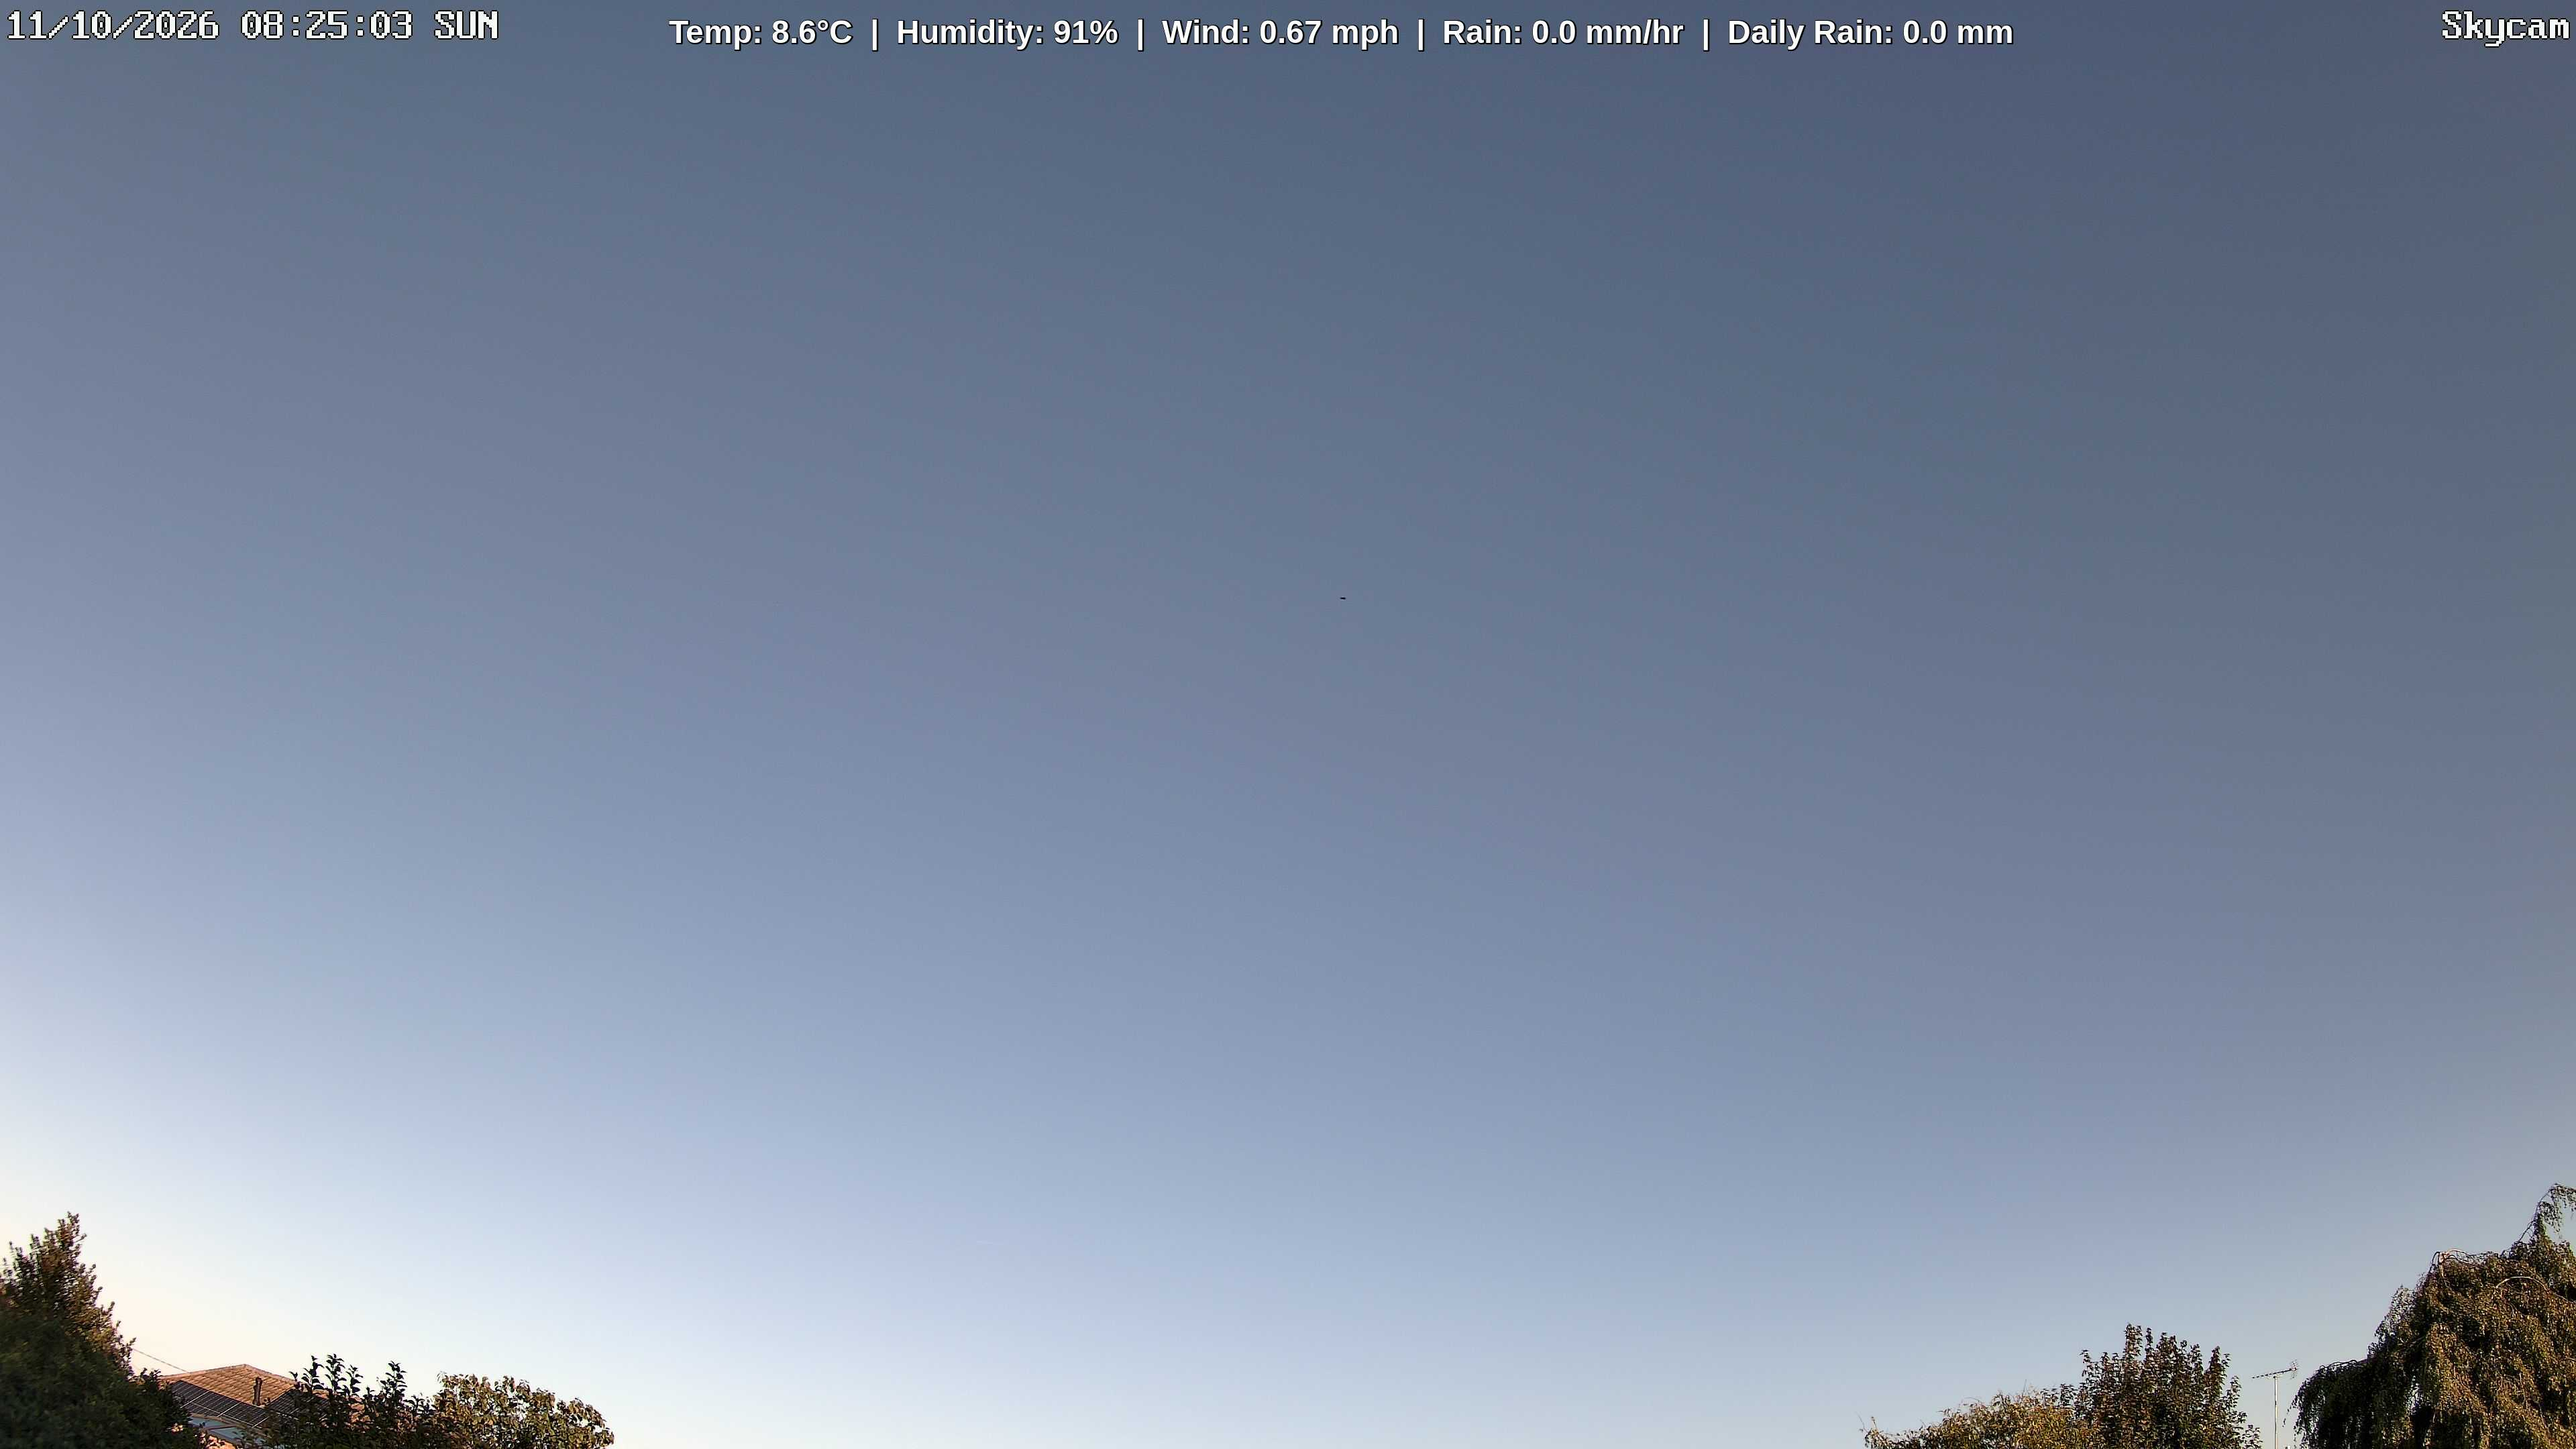
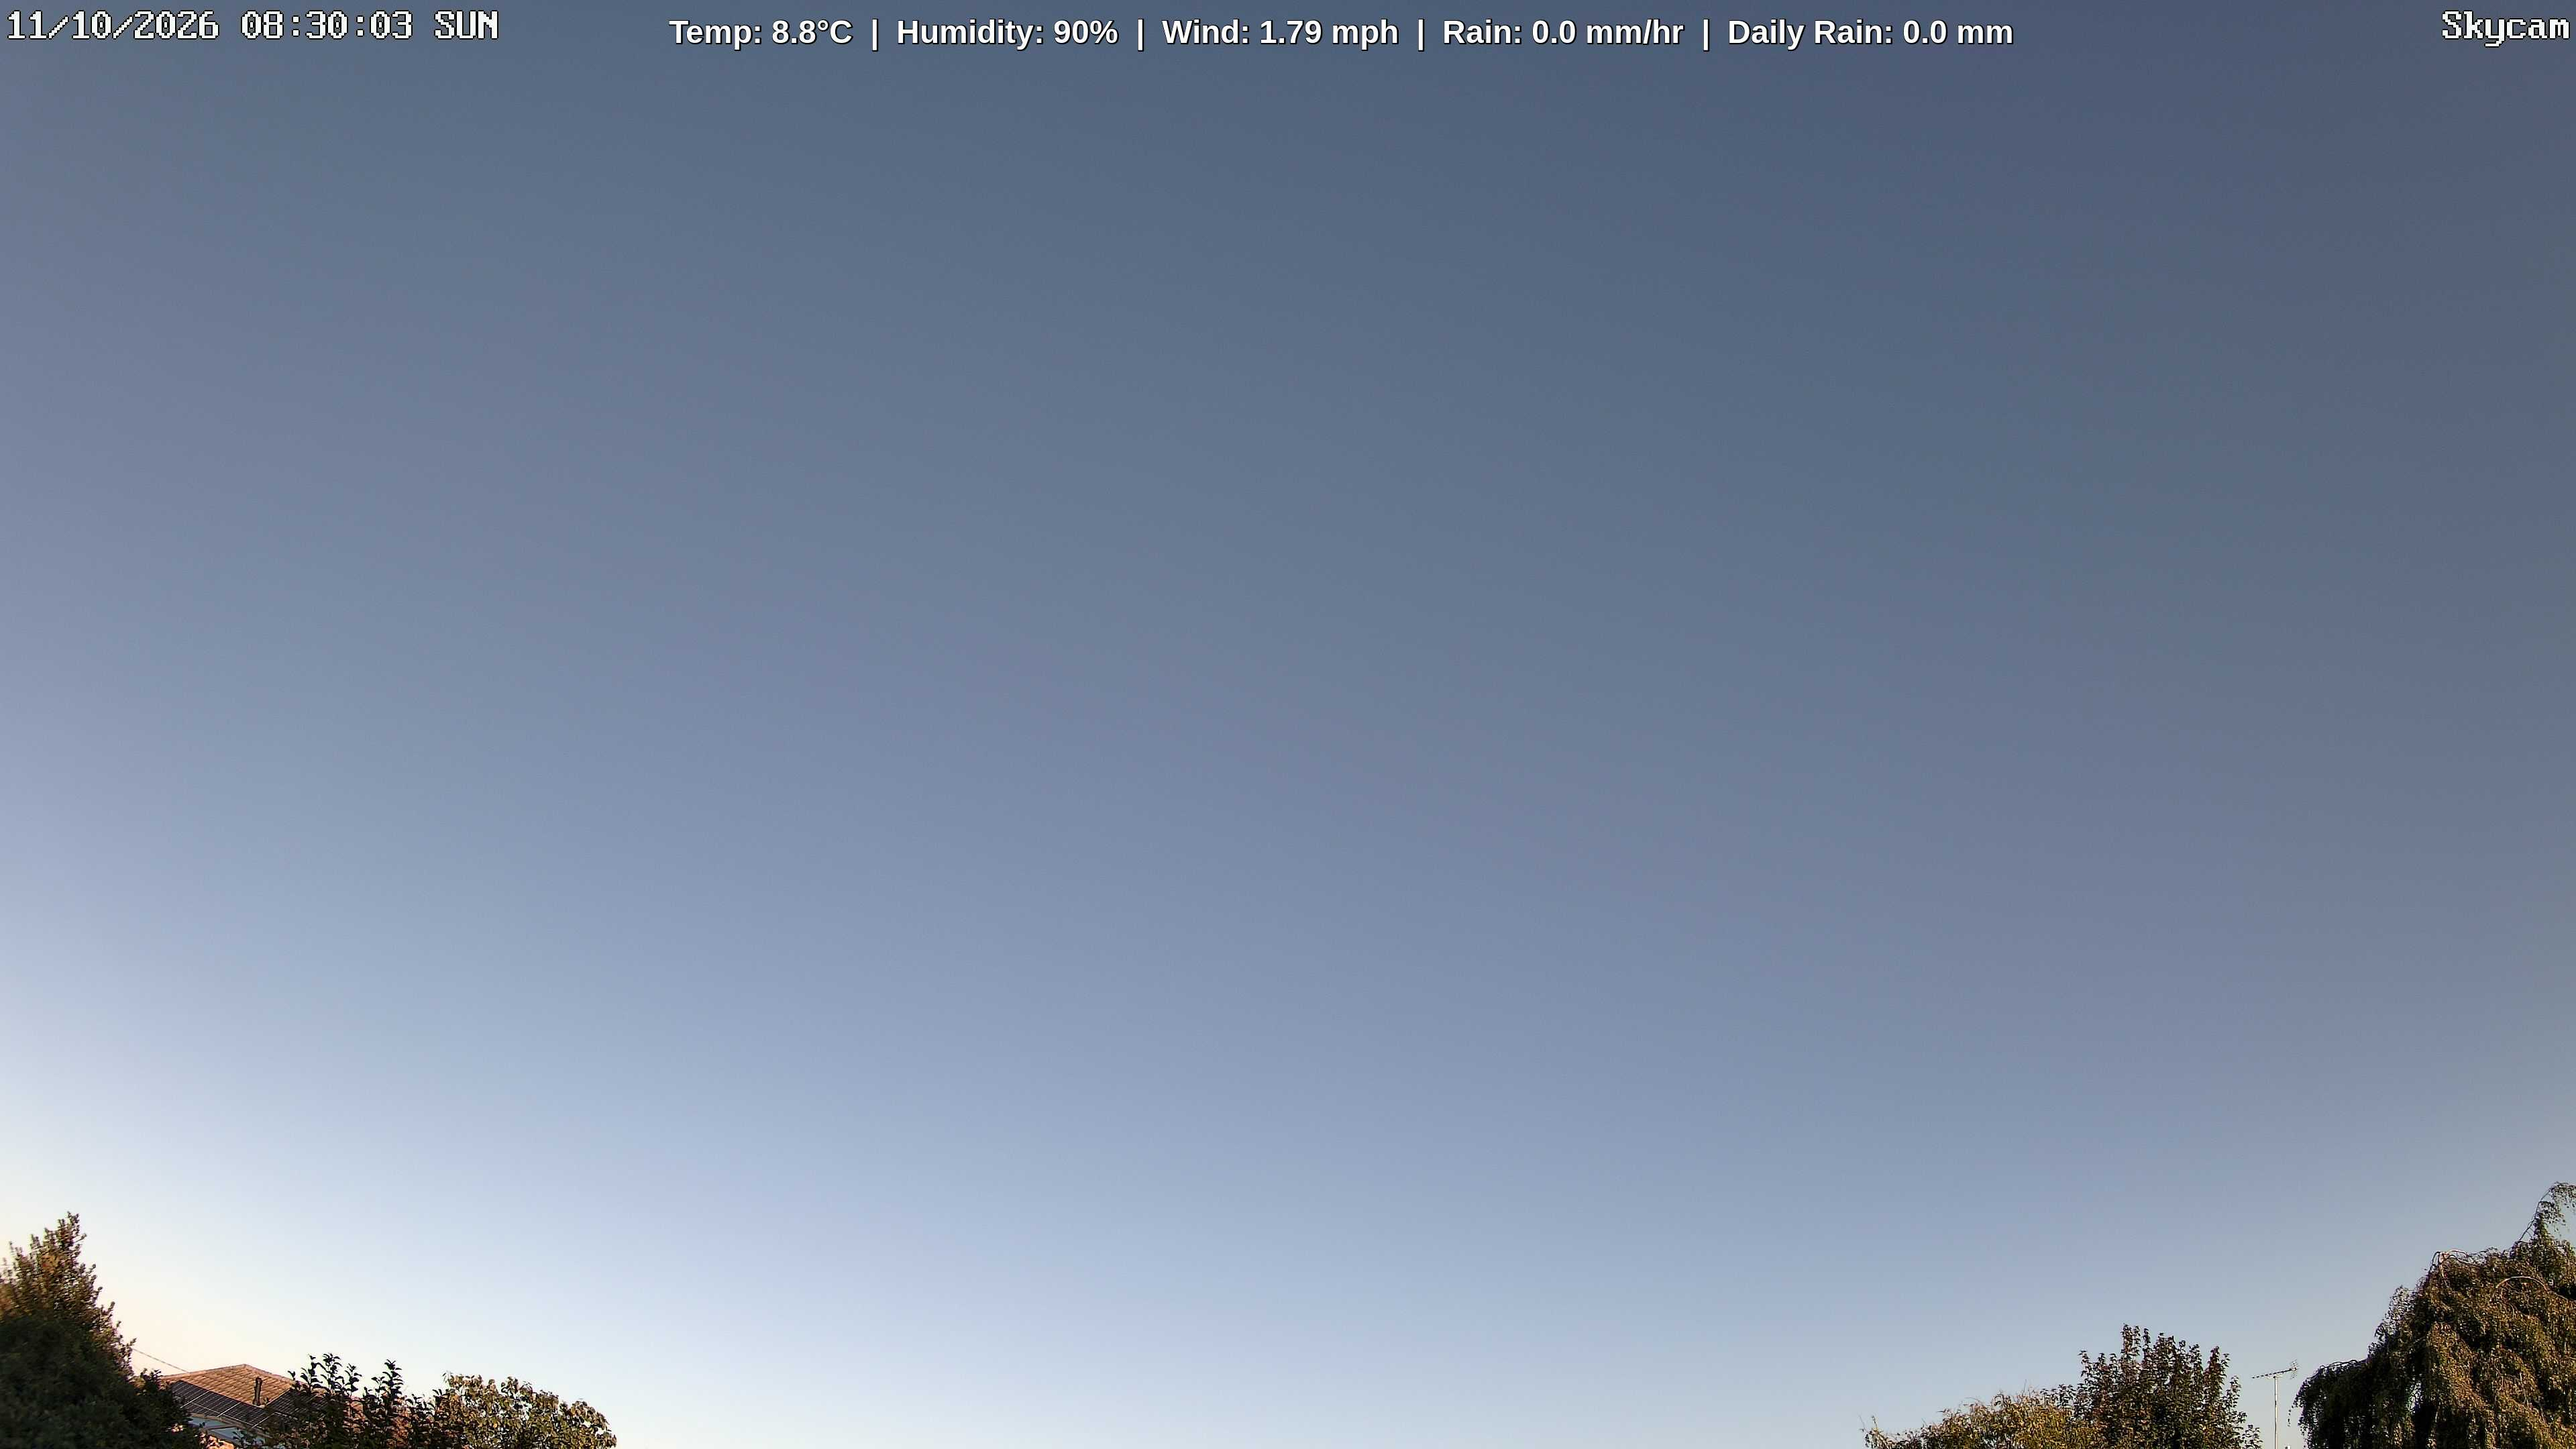
Update weather cam image with synchronized dual-layer weather metrics

diff --git a/index.html b/index.html
@@ -32,7 +32,7 @@
 </head>
 <body>
     <img id="weathercam" alt="Live Weather Snapshot">
-    <div class="banner">Temp: 8.6°C  |  Humidity: 91%  |  Wind: 0.67 mph  |  Rain: 0.0 mm/hr  |  Daily Rain: 0.0 mm</div>
+    <div class="banner">Temp: 8.8°C  |  Humidity: 90%  |  Wind: 1.79 mph  |  Rain: 0.0 mm/hr  |  Daily Rain: 0.0 mm</div>
 
     <script>
         // Shatter mobile cache engines by appending a live unique runtime timestamp 
